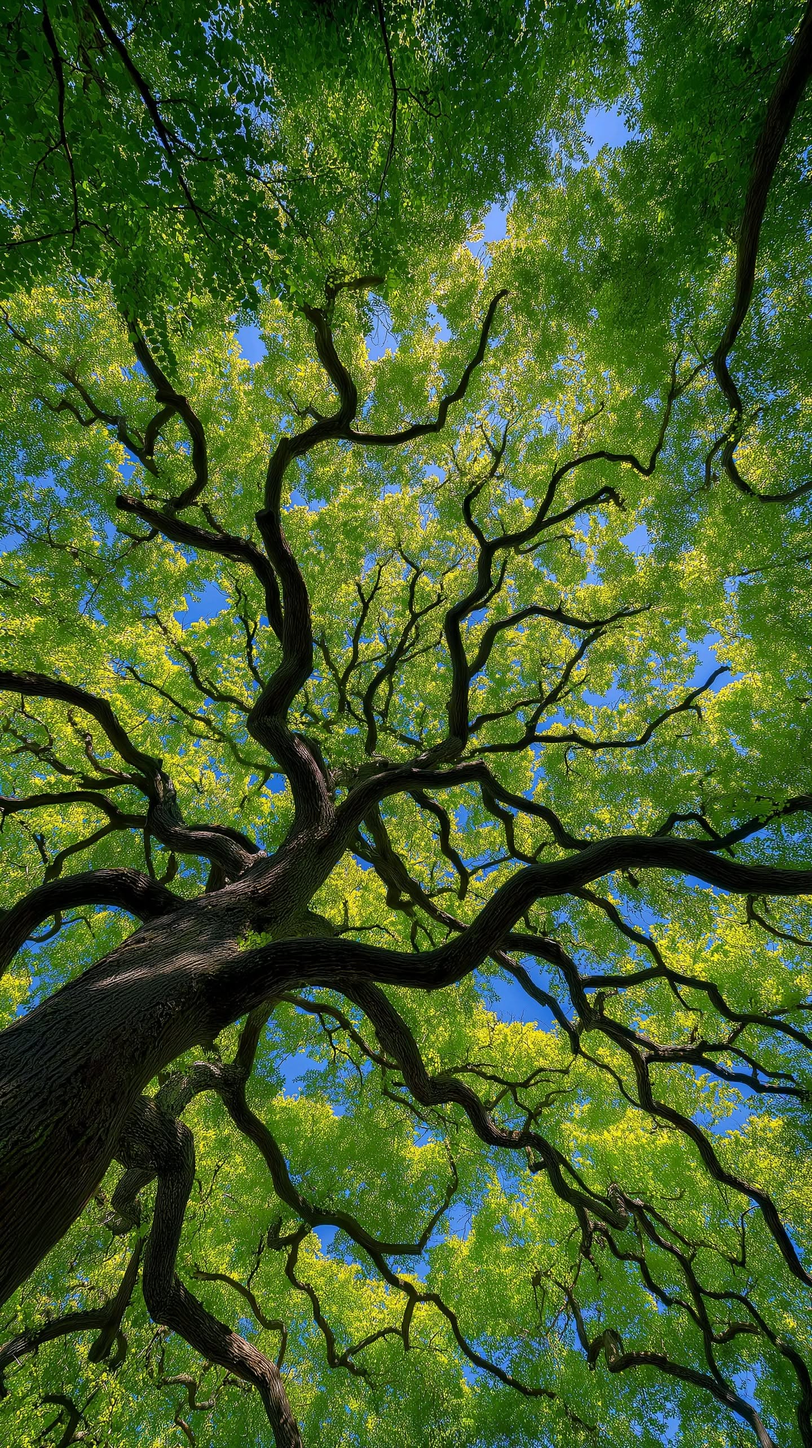
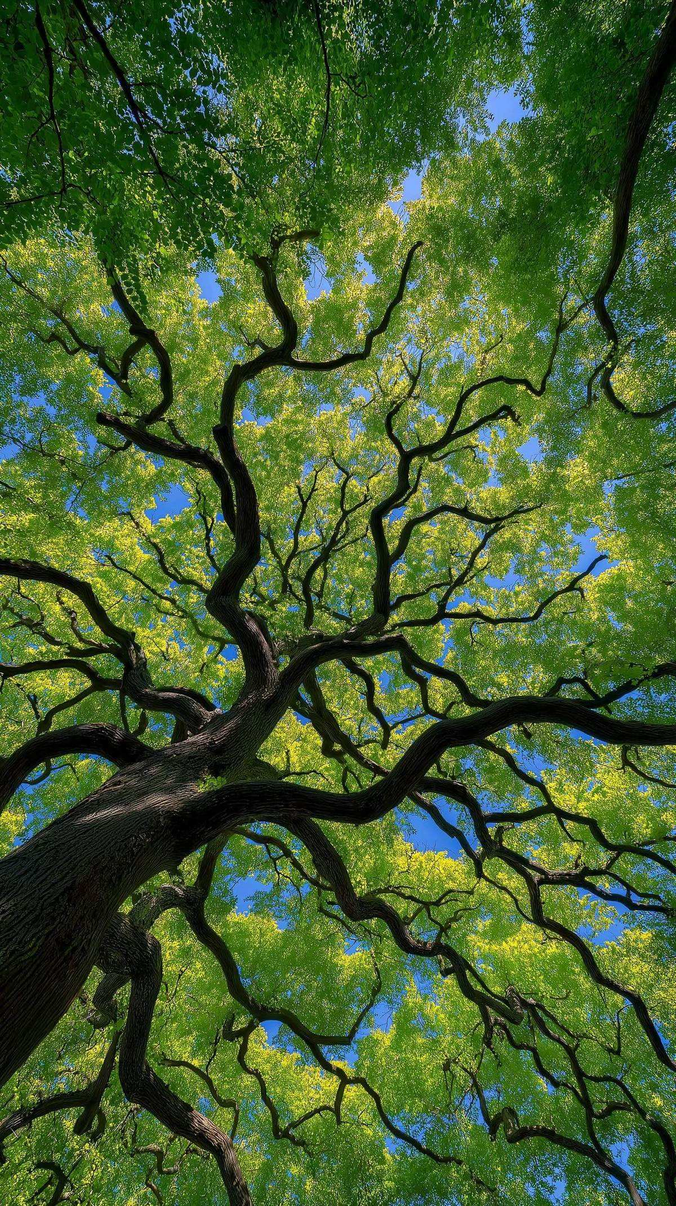
性能优化

diff --git a/docs/index.html b/docs/index.html
@@ -6,6 +6,8 @@
 <title>谢静雯 · 生态学本科生 | 个人简历</title>
 <link rel="preconnect" href="https://fonts.googleapis.com">
 <link rel="preconnect" href="https://fonts.gstatic.com" crossorigin>
+<link rel="preload" as="image" href="素材/b0ca37b1cce4b8c55ef022c82056c4d1.webp">
+<link rel="preload" as="image" href="1112811389206476574.jpg">
 <link href="https://fonts.googleapis.com/css2?family=Cormorant+Garamond:ital,wght@0,400;0,500;0,600;0,700;1,400;1,500&family=Noto+Serif+SC:wght@300;400;500;600;700;900&family=Noto+Sans+SC:wght@300;400;500;700&family=ZCOOL+XiaoWei&display=swap" rel="stylesheet">
 <style>
 *{margin:0;padding:0;box-sizing:border-box}
@@ -1242,7 +1244,7 @@ a{color:inherit;text-decoration:none}
         <div class="hero-avatar-ring r2" aria-hidden="true"></div>
         <div class="hero-avatar-ring" aria-hidden="true"></div>
         <div class="hero-avatar">
-          <img src="素材/b0ca37b1cce4b8c55ef022c82056c4d1.jpg" alt="谢静雯 个人照" decoding="async">
+          <img src="素材/b0ca37b1cce4b8c55ef022c82056c4d1.webp" alt="谢静雯 个人照" decoding="async" width="600" height="600">
         </div>
         <div class="hero-avatar-sheen" aria-hidden="true"></div>
       </div>
@@ -1280,19 +1282,19 @@ a{color:inherit;text-decoration:none}
             </defs>
           </svg>
           <div class="profile-card" data-tilt>
-            <img class="profile-card-img" src="素材/e66258d991a9b0ed69ec01e4ad24da39.jpg" alt="个人照一" loading="lazy" decoding="async">
+            <img class="profile-card-img" src="素材/e66258d991a9b0ed69ec01e4ad24da39.webp" alt="个人照一" loading="lazy" decoding="async">
             <div class="profile-card-glow"></div>
             <div class="profile-card-border"></div>
             <div class="profile-card-badge"><b>校园生活</b>· 日常剪影</div>
           </div>
           <div class="profile-card" data-tilt>
-            <img class="profile-card-img" src="素材/b0ca37b1cce4b8c55ef022c82056c4d1.jpg" alt="谢静雯 个人照" loading="lazy" decoding="async">
+            <img class="profile-card-img" src="素材/b0ca37b1cce4b8c55ef022c82056c4d1.webp" alt="谢静雯 个人照" loading="lazy" decoding="async">
             <div class="profile-card-glow"></div>
             <div class="profile-card-border"></div>
             <div class="profile-card-badge"><b>谢静雯</b>· 生态学 · 2023级</div>
           </div>
           <div class="profile-card" data-tilt>
-            <img class="profile-card-img" src="素材/1a0874faaf567f795d380a1bb3f8bf56.jpg" alt="个人照二" loading="lazy" decoding="async">
+            <img class="profile-card-img" src="素材/1a0874faaf567f795d380a1bb3f8bf56.webp" alt="个人照二" loading="lazy" decoding="async">
             <div class="profile-card-glow"></div>
             <div class="profile-card-border"></div>
             <div class="profile-card-badge"><b>实践掠影</b>· 学习瞬间</div>
@@ -1494,28 +1496,28 @@ a{color:inherit;text-decoration:none}
         <div class="driftwall-columns" id="driftcols">
           <!-- 4 columns; JS duplicates content for seamless wrap -->
           <div class="drift-col" data-dir="-1" data-speed="1">
-            <div class="drift-tile"><img src="素材/碳农探索活动.jpg" alt="碳农探索" loading="lazy" decoding="async"><div class="drift-caption"><div class="drift-cap-title">碳农先锋 · 探索活动</div><div class="drift-cap-sub">创新创业大赛实地调研团队，探索碳基材料治理路径</div></div></div>
-            <div class="drift-tile"><img src="素材/浏阳实习团队汇报.jpg" alt="浏阳实习汇报" loading="lazy" decoding="async"><div class="drift-caption"><div class="drift-cap-title">浏阳实习 · 团队汇报</div><div class="drift-cap-sub">生态考察后总结分享，梳理流域治理观察成果</div></div></div>
-            <div class="drift-tile"><img src="素材/部门开会.jpg" alt="部门例会" loading="lazy" decoding="async"><div class="drift-caption"><div class="drift-cap-title">学生会 · 部门例会</div><div class="drift-cap-sub">就业部活动筹备会议，推进招聘会与考研分享会落地</div></div></div>
-            <div class="drift-tile"><img src="素材/宣传工作.jpg" alt="宣传工作" loading="lazy" decoding="async"><div class="drift-caption"><div class="drift-cap-title">学生会 · 宣传工作</div><div class="drift-cap-sub">负责活动宣传与信息发布，运营学院就业云平台</div></div></div>
+            <div class="drift-tile"><img src="素材/碳农探索活动.webp" alt="碳农探索" loading="lazy" decoding="async" width="400" height="500"><div class="drift-caption"><div class="drift-cap-title">碳农先锋 · 探索活动</div><div class="drift-cap-sub">创新创业大赛实地调研团队，探索碳基材料治理路径</div></div></div>
+            <div class="drift-tile"><img src="素材/浏阳实习团队汇报.webp" alt="浏阳实习汇报" loading="lazy" decoding="async" width="400" height="500"><div class="drift-caption"><div class="drift-cap-title">浏阳实习 · 团队汇报</div><div class="drift-cap-sub">生态考察后总结分享，梳理流域治理观察成果</div></div></div>
+            <div class="drift-tile"><img src="素材/部门开会.webp" alt="部门例会" loading="lazy" decoding="async" width="400" height="500"><div class="drift-caption"><div class="drift-cap-title">学生会 · 部门例会</div><div class="drift-cap-sub">就业部活动筹备会议，推进招聘会与考研分享会落地</div></div></div>
+            <div class="drift-tile"><img src="素材/宣传工作.webp" alt="宣传工作" loading="lazy" decoding="async" width="400" height="500"><div class="drift-caption"><div class="drift-cap-title">学生会 · 宣传工作</div><div class="drift-cap-sub">负责活动宣传与信息发布，运营学院就业云平台</div></div></div>
           </div>
           <div class="drift-col" data-dir="1" data-speed="1.2">
-            <div class="drift-tile"><img src="素材/实验.jpg" alt="实验室" loading="lazy" decoding="async"><div class="drift-caption"><div class="drift-cap-title">科研 · 样品预处理</div><div class="drift-cap-sub">实验室中进行污染物降解实验样品前处理流程</div></div></div>
-            <div class="drift-tile"><img src="素材/家教.jpg" alt="家教辅导" loading="lazy" decoding="async"><div class="drift-caption"><div class="drift-cap-title">教培 · 辅导授课</div><div class="drift-cap-sub">独立承担带课任务，为学生定制学习计划并跟进执行</div></div></div>
-            <div class="drift-tile"><img src="素材/马拉松志愿者.jpg" alt="马拉松志愿" loading="lazy" decoding="async"><div class="drift-caption"><div class="drift-cap-title">马拉松 · 志愿保障</div><div class="drift-cap-sub">赛事志愿者参与秩序维护与补给服务保障</div></div></div>
-            <div class="drift-tile"><img src="素材/学校实习.jpg" alt="学校实习" loading="lazy" decoding="async"><div class="drift-caption"><div class="drift-cap-title">学校实习 · 实践现场</div><div class="drift-cap-sub">校内组织的专业实习活动，理论结合实践锻炼专业技能</div></div></div>
+            <div class="drift-tile"><img src="素材/实验.webp" alt="实验室" loading="lazy" decoding="async" width="400" height="500"><div class="drift-caption"><div class="drift-cap-title">科研 · 样品预处理</div><div class="drift-cap-sub">实验室中进行污染物降解实验样品前处理流程</div></div></div>
+            <div class="drift-tile"><img src="素材/家教.webp" alt="家教辅导" loading="lazy" decoding="async" width="400" height="500"><div class="drift-caption"><div class="drift-cap-title">教培 · 辅导授课</div><div class="drift-cap-sub">独立承担带课任务，为学生定制学习计划并跟进执行</div></div></div>
+            <div class="drift-tile"><img src="素材/马拉松志愿者.webp" alt="马拉松志愿" loading="lazy" decoding="async" width="400" height="500"><div class="drift-caption"><div class="drift-cap-title">马拉松 · 志愿保障</div><div class="drift-cap-sub">赛事志愿者参与秩序维护与补给服务保障</div></div></div>
+            <div class="drift-tile"><img src="素材/学校实习.webp" alt="学校实习" loading="lazy" decoding="async" width="400" height="500"><div class="drift-caption"><div class="drift-cap-title">学校实习 · 实践现场</div><div class="drift-cap-sub">校内组织的专业实习活动，理论结合实践锻炼专业技能</div></div></div>
           </div>
           <div class="drift-col" data-dir="-1" data-speed="1.4">
-            <div class="drift-tile"><img src="素材/实验2.jpg" alt="实验仪器" loading="lazy" decoding="async"><div class="drift-caption"><div class="drift-cap-title">实验室 · 仪器校准</div><div class="drift-cap-sub">实验仪器调试与校准，保障降解催化实验数据准确性</div></div></div>
-            <div class="drift-tile"><img src="素材/社区志愿活动.jpg" alt="社区志愿" loading="lazy" decoding="async"><div class="drift-caption"><div class="drift-cap-title">社区 · 志愿活动</div><div class="drift-cap-sub">社区公益服务现场，践行志愿精神累计服务超百小时</div></div></div>
-            <div class="drift-tile"><img src="素材/志愿献血.jpg" alt="志愿献血" loading="lazy" decoding="async"><div class="drift-caption"><div class="drift-cap-title">志愿 · 无偿献血</div><div class="drift-cap-sub">公益献血奉献爱心，履行大学生的社会责任</div></div></div>
-            <div class="drift-tile"><img src="素材/学校实习2.jpg" alt="学校实习2" loading="lazy" decoding="async"><div class="drift-caption"><div class="drift-cap-title">学校实习 · 实地操作</div><div class="drift-cap-sub">专业实习现场实操，深化对环境生态知识的理解</div></div></div>
+            <div class="drift-tile"><img src="素材/实验2.webp" alt="实验仪器" loading="lazy" decoding="async" width="400" height="500"><div class="drift-caption"><div class="drift-cap-title">实验室 · 仪器校准</div><div class="drift-cap-sub">实验仪器调试与校准，保障降解催化实验数据准确性</div></div></div>
+            <div class="drift-tile"><img src="素材/社区志愿活动.webp" alt="社区志愿" loading="lazy" decoding="async" width="400" height="500"><div class="drift-caption"><div class="drift-cap-title">社区 · 志愿活动</div><div class="drift-cap-sub">社区公益服务现场，践行志愿精神累计服务超百小时</div></div></div>
+            <div class="drift-tile"><img src="素材/志愿献血.webp" alt="志愿献血" loading="lazy" decoding="async" width="400" height="500"><div class="drift-caption"><div class="drift-cap-title">志愿 · 无偿献血</div><div class="drift-cap-sub">公益献血奉献爱心，履行大学生的社会责任</div></div></div>
+            <div class="drift-tile"><img src="素材/学校实习2.webp" alt="学校实习2" loading="lazy" decoding="async" width="400" height="500"><div class="drift-caption"><div class="drift-cap-title">学校实习 · 实地操作</div><div class="drift-cap-sub">专业实习现场实操，深化对环境生态知识的理解</div></div></div>
           </div>
           <div class="drift-col" data-dir="1" data-speed="0.9">
-            <div class="drift-tile"><img src="素材/做实验.jpg" alt="实验操作" loading="lazy" decoding="async"><div class="drift-caption"><div class="drift-cap-title">实验室 · 催化实验</div><div class="drift-cap-sub">Cu-Fe 负载氮化碳催化降解双氯芬酸性能研究操作</div></div></div>
-            <div class="drift-tile"><img src="素材/自己学建模.jpg" alt="自学建模" loading="lazy" decoding="async"><div class="drift-caption"><div class="drift-cap-title">自学 · 建模与设计</div><div class="drift-cap-sub">课余自学建模与视觉呈现，提升 PPT 与数字内容能力</div></div></div>
-            <div class="drift-tile"><img src="素材/碳农探索活动.jpg" alt="碳农探索" loading="lazy" decoding="async"><div class="drift-caption"><div class="drift-cap-title">碳农先锋 · 二次调研</div><div class="drift-cap-sub">创新创业优胜奖项目，持续探索碳基材料农业治理方向</div></div></div>
-            <div class="drift-tile"><img src="素材/实习成功展示.jpg" alt="实习成功展示" loading="lazy" decoding="async"><div class="drift-caption"><div class="drift-cap-title">实习 · 成果展示</div><div class="drift-cap-sub">实习成果汇报现场，完整呈现项目执行与个人收获</div></div></div>
+            <div class="drift-tile"><img src="素材/做实验.webp" alt="实验操作" loading="lazy" decoding="async" width="400" height="500"><div class="drift-caption"><div class="drift-cap-title">实验室 · 催化实验</div><div class="drift-cap-sub">Cu-Fe 负载氮化碳催化降解双氯芬酸性能研究操作</div></div></div>
+            <div class="drift-tile"><img src="素材/自己学建模.webp" alt="自学建模" loading="lazy" decoding="async" width="400" height="500"><div class="drift-caption"><div class="drift-cap-title">自学 · 建模与设计</div><div class="drift-cap-sub">课余自学建模与视觉呈现，提升 PPT 与数字内容能力</div></div></div>
+            <div class="drift-tile"><img src="素材/碳农探索活动.webp" alt="碳农探索" loading="lazy" decoding="async" width="400" height="500"><div class="drift-caption"><div class="drift-cap-title">碳农先锋 · 二次调研</div><div class="drift-cap-sub">创新创业优胜奖项目，持续探索碳基材料农业治理方向</div></div></div>
+            <div class="drift-tile"><img src="素材/实习成功展示.webp" alt="实习成功展示" loading="lazy" decoding="async" width="400" height="500"><div class="drift-caption"><div class="drift-cap-title">实习 · 成果展示</div><div class="drift-cap-sub">实习成果汇报现场，完整呈现项目执行与个人收获</div></div></div>
           </div>
         </div>
       </div>
@@ -1800,7 +1802,7 @@ const galleryItems = galleryData.map((item, i) => {
   el.dataset.cat = item.cat;
   el.dataset.index = String(i);
   el.innerHTML = `
-    <img src="${item.src}" alt="${item.name}" loading="lazy">
+    <img src="${item.src}" alt="${item.name}" loading="lazy" decoding="async" width="300" height="400">
     <div class="gallery-overlay">
       <div class="gallery-cat">${item.catLabel}</div>
       <div class="gallery-name">${item.name}</div>

diff --git a/index.html b/index.html
@@ -6,6 +6,8 @@
 <title>谢静雯 · 生态学本科生 | 个人简历</title>
 <link rel="preconnect" href="https://fonts.googleapis.com">
 <link rel="preconnect" href="https://fonts.gstatic.com" crossorigin>
+<link rel="preload" as="image" href="素材/b0ca37b1cce4b8c55ef022c82056c4d1.webp">
+<link rel="preload" as="image" href="1112811389206476574.jpg">
 <link href="https://fonts.googleapis.com/css2?family=Cormorant+Garamond:ital,wght@0,400;0,500;0,600;0,700;1,400;1,500&family=Noto+Serif+SC:wght@300;400;500;600;700;900&family=Noto+Sans+SC:wght@300;400;500;700&family=ZCOOL+XiaoWei&display=swap" rel="stylesheet">
 <style>
 *{margin:0;padding:0;box-sizing:border-box}
@@ -1242,7 +1244,7 @@ a{color:inherit;text-decoration:none}
         <div class="hero-avatar-ring r2" aria-hidden="true"></div>
         <div class="hero-avatar-ring" aria-hidden="true"></div>
         <div class="hero-avatar">
-          <img src="素材/b0ca37b1cce4b8c55ef022c82056c4d1.jpg" alt="谢静雯 个人照" decoding="async">
+          <img src="素材/b0ca37b1cce4b8c55ef022c82056c4d1.webp" alt="谢静雯 个人照" decoding="async" width="600" height="600">
         </div>
         <div class="hero-avatar-sheen" aria-hidden="true"></div>
       </div>
@@ -1280,19 +1282,19 @@ a{color:inherit;text-decoration:none}
             </defs>
           </svg>
           <div class="profile-card" data-tilt>
-            <img class="profile-card-img" src="素材/e66258d991a9b0ed69ec01e4ad24da39.jpg" alt="个人照一" loading="lazy" decoding="async">
+            <img class="profile-card-img" src="素材/e66258d991a9b0ed69ec01e4ad24da39.webp" alt="个人照一" loading="lazy" decoding="async">
             <div class="profile-card-glow"></div>
             <div class="profile-card-border"></div>
             <div class="profile-card-badge"><b>校园生活</b>· 日常剪影</div>
           </div>
           <div class="profile-card" data-tilt>
-            <img class="profile-card-img" src="素材/b0ca37b1cce4b8c55ef022c82056c4d1.jpg" alt="谢静雯 个人照" loading="lazy" decoding="async">
+            <img class="profile-card-img" src="素材/b0ca37b1cce4b8c55ef022c82056c4d1.webp" alt="谢静雯 个人照" loading="lazy" decoding="async">
             <div class="profile-card-glow"></div>
             <div class="profile-card-border"></div>
             <div class="profile-card-badge"><b>谢静雯</b>· 生态学 · 2023级</div>
           </div>
           <div class="profile-card" data-tilt>
-            <img class="profile-card-img" src="素材/1a0874faaf567f795d380a1bb3f8bf56.jpg" alt="个人照二" loading="lazy" decoding="async">
+            <img class="profile-card-img" src="素材/1a0874faaf567f795d380a1bb3f8bf56.webp" alt="个人照二" loading="lazy" decoding="async">
             <div class="profile-card-glow"></div>
             <div class="profile-card-border"></div>
             <div class="profile-card-badge"><b>实践掠影</b>· 学习瞬间</div>
@@ -1494,28 +1496,28 @@ a{color:inherit;text-decoration:none}
         <div class="driftwall-columns" id="driftcols">
           <!-- 4 columns; JS duplicates content for seamless wrap -->
           <div class="drift-col" data-dir="-1" data-speed="1">
-            <div class="drift-tile"><img src="素材/碳农探索活动.jpg" alt="碳农探索" loading="lazy" decoding="async"><div class="drift-caption"><div class="drift-cap-title">碳农先锋 · 探索活动</div><div class="drift-cap-sub">创新创业大赛实地调研团队，探索碳基材料治理路径</div></div></div>
-            <div class="drift-tile"><img src="素材/浏阳实习团队汇报.jpg" alt="浏阳实习汇报" loading="lazy" decoding="async"><div class="drift-caption"><div class="drift-cap-title">浏阳实习 · 团队汇报</div><div class="drift-cap-sub">生态考察后总结分享，梳理流域治理观察成果</div></div></div>
-            <div class="drift-tile"><img src="素材/部门开会.jpg" alt="部门例会" loading="lazy" decoding="async"><div class="drift-caption"><div class="drift-cap-title">学生会 · 部门例会</div><div class="drift-cap-sub">就业部活动筹备会议，推进招聘会与考研分享会落地</div></div></div>
-            <div class="drift-tile"><img src="素材/宣传工作.jpg" alt="宣传工作" loading="lazy" decoding="async"><div class="drift-caption"><div class="drift-cap-title">学生会 · 宣传工作</div><div class="drift-cap-sub">负责活动宣传与信息发布，运营学院就业云平台</div></div></div>
+            <div class="drift-tile"><img src="素材/碳农探索活动.webp" alt="碳农探索" loading="lazy" decoding="async" width="400" height="500"><div class="drift-caption"><div class="drift-cap-title">碳农先锋 · 探索活动</div><div class="drift-cap-sub">创新创业大赛实地调研团队，探索碳基材料治理路径</div></div></div>
+            <div class="drift-tile"><img src="素材/浏阳实习团队汇报.webp" alt="浏阳实习汇报" loading="lazy" decoding="async" width="400" height="500"><div class="drift-caption"><div class="drift-cap-title">浏阳实习 · 团队汇报</div><div class="drift-cap-sub">生态考察后总结分享，梳理流域治理观察成果</div></div></div>
+            <div class="drift-tile"><img src="素材/部门开会.webp" alt="部门例会" loading="lazy" decoding="async" width="400" height="500"><div class="drift-caption"><div class="drift-cap-title">学生会 · 部门例会</div><div class="drift-cap-sub">就业部活动筹备会议，推进招聘会与考研分享会落地</div></div></div>
+            <div class="drift-tile"><img src="素材/宣传工作.webp" alt="宣传工作" loading="lazy" decoding="async" width="400" height="500"><div class="drift-caption"><div class="drift-cap-title">学生会 · 宣传工作</div><div class="drift-cap-sub">负责活动宣传与信息发布，运营学院就业云平台</div></div></div>
           </div>
           <div class="drift-col" data-dir="1" data-speed="1.2">
-            <div class="drift-tile"><img src="素材/实验.jpg" alt="实验室" loading="lazy" decoding="async"><div class="drift-caption"><div class="drift-cap-title">科研 · 样品预处理</div><div class="drift-cap-sub">实验室中进行污染物降解实验样品前处理流程</div></div></div>
-            <div class="drift-tile"><img src="素材/家教.jpg" alt="家教辅导" loading="lazy" decoding="async"><div class="drift-caption"><div class="drift-cap-title">教培 · 辅导授课</div><div class="drift-cap-sub">独立承担带课任务，为学生定制学习计划并跟进执行</div></div></div>
-            <div class="drift-tile"><img src="素材/马拉松志愿者.jpg" alt="马拉松志愿" loading="lazy" decoding="async"><div class="drift-caption"><div class="drift-cap-title">马拉松 · 志愿保障</div><div class="drift-cap-sub">赛事志愿者参与秩序维护与补给服务保障</div></div></div>
-            <div class="drift-tile"><img src="素材/学校实习.jpg" alt="学校实习" loading="lazy" decoding="async"><div class="drift-caption"><div class="drift-cap-title">学校实习 · 实践现场</div><div class="drift-cap-sub">校内组织的专业实习活动，理论结合实践锻炼专业技能</div></div></div>
+            <div class="drift-tile"><img src="素材/实验.webp" alt="实验室" loading="lazy" decoding="async" width="400" height="500"><div class="drift-caption"><div class="drift-cap-title">科研 · 样品预处理</div><div class="drift-cap-sub">实验室中进行污染物降解实验样品前处理流程</div></div></div>
+            <div class="drift-tile"><img src="素材/家教.webp" alt="家教辅导" loading="lazy" decoding="async" width="400" height="500"><div class="drift-caption"><div class="drift-cap-title">教培 · 辅导授课</div><div class="drift-cap-sub">独立承担带课任务，为学生定制学习计划并跟进执行</div></div></div>
+            <div class="drift-tile"><img src="素材/马拉松志愿者.webp" alt="马拉松志愿" loading="lazy" decoding="async" width="400" height="500"><div class="drift-caption"><div class="drift-cap-title">马拉松 · 志愿保障</div><div class="drift-cap-sub">赛事志愿者参与秩序维护与补给服务保障</div></div></div>
+            <div class="drift-tile"><img src="素材/学校实习.webp" alt="学校实习" loading="lazy" decoding="async" width="400" height="500"><div class="drift-caption"><div class="drift-cap-title">学校实习 · 实践现场</div><div class="drift-cap-sub">校内组织的专业实习活动，理论结合实践锻炼专业技能</div></div></div>
           </div>
           <div class="drift-col" data-dir="-1" data-speed="1.4">
-            <div class="drift-tile"><img src="素材/实验2.jpg" alt="实验仪器" loading="lazy" decoding="async"><div class="drift-caption"><div class="drift-cap-title">实验室 · 仪器校准</div><div class="drift-cap-sub">实验仪器调试与校准，保障降解催化实验数据准确性</div></div></div>
-            <div class="drift-tile"><img src="素材/社区志愿活动.jpg" alt="社区志愿" loading="lazy" decoding="async"><div class="drift-caption"><div class="drift-cap-title">社区 · 志愿活动</div><div class="drift-cap-sub">社区公益服务现场，践行志愿精神累计服务超百小时</div></div></div>
-            <div class="drift-tile"><img src="素材/志愿献血.jpg" alt="志愿献血" loading="lazy" decoding="async"><div class="drift-caption"><div class="drift-cap-title">志愿 · 无偿献血</div><div class="drift-cap-sub">公益献血奉献爱心，履行大学生的社会责任</div></div></div>
-            <div class="drift-tile"><img src="素材/学校实习2.jpg" alt="学校实习2" loading="lazy" decoding="async"><div class="drift-caption"><div class="drift-cap-title">学校实习 · 实地操作</div><div class="drift-cap-sub">专业实习现场实操，深化对环境生态知识的理解</div></div></div>
+            <div class="drift-tile"><img src="素材/实验2.webp" alt="实验仪器" loading="lazy" decoding="async" width="400" height="500"><div class="drift-caption"><div class="drift-cap-title">实验室 · 仪器校准</div><div class="drift-cap-sub">实验仪器调试与校准，保障降解催化实验数据准确性</div></div></div>
+            <div class="drift-tile"><img src="素材/社区志愿活动.webp" alt="社区志愿" loading="lazy" decoding="async" width="400" height="500"><div class="drift-caption"><div class="drift-cap-title">社区 · 志愿活动</div><div class="drift-cap-sub">社区公益服务现场，践行志愿精神累计服务超百小时</div></div></div>
+            <div class="drift-tile"><img src="素材/志愿献血.webp" alt="志愿献血" loading="lazy" decoding="async" width="400" height="500"><div class="drift-caption"><div class="drift-cap-title">志愿 · 无偿献血</div><div class="drift-cap-sub">公益献血奉献爱心，履行大学生的社会责任</div></div></div>
+            <div class="drift-tile"><img src="素材/学校实习2.webp" alt="学校实习2" loading="lazy" decoding="async" width="400" height="500"><div class="drift-caption"><div class="drift-cap-title">学校实习 · 实地操作</div><div class="drift-cap-sub">专业实习现场实操，深化对环境生态知识的理解</div></div></div>
           </div>
           <div class="drift-col" data-dir="1" data-speed="0.9">
-            <div class="drift-tile"><img src="素材/做实验.jpg" alt="实验操作" loading="lazy" decoding="async"><div class="drift-caption"><div class="drift-cap-title">实验室 · 催化实验</div><div class="drift-cap-sub">Cu-Fe 负载氮化碳催化降解双氯芬酸性能研究操作</div></div></div>
-            <div class="drift-tile"><img src="素材/自己学建模.jpg" alt="自学建模" loading="lazy" decoding="async"><div class="drift-caption"><div class="drift-cap-title">自学 · 建模与设计</div><div class="drift-cap-sub">课余自学建模与视觉呈现，提升 PPT 与数字内容能力</div></div></div>
-            <div class="drift-tile"><img src="素材/碳农探索活动.jpg" alt="碳农探索" loading="lazy" decoding="async"><div class="drift-caption"><div class="drift-cap-title">碳农先锋 · 二次调研</div><div class="drift-cap-sub">创新创业优胜奖项目，持续探索碳基材料农业治理方向</div></div></div>
-            <div class="drift-tile"><img src="素材/实习成功展示.jpg" alt="实习成功展示" loading="lazy" decoding="async"><div class="drift-caption"><div class="drift-cap-title">实习 · 成果展示</div><div class="drift-cap-sub">实习成果汇报现场，完整呈现项目执行与个人收获</div></div></div>
+            <div class="drift-tile"><img src="素材/做实验.webp" alt="实验操作" loading="lazy" decoding="async" width="400" height="500"><div class="drift-caption"><div class="drift-cap-title">实验室 · 催化实验</div><div class="drift-cap-sub">Cu-Fe 负载氮化碳催化降解双氯芬酸性能研究操作</div></div></div>
+            <div class="drift-tile"><img src="素材/自己学建模.webp" alt="自学建模" loading="lazy" decoding="async" width="400" height="500"><div class="drift-caption"><div class="drift-cap-title">自学 · 建模与设计</div><div class="drift-cap-sub">课余自学建模与视觉呈现，提升 PPT 与数字内容能力</div></div></div>
+            <div class="drift-tile"><img src="素材/碳农探索活动.webp" alt="碳农探索" loading="lazy" decoding="async" width="400" height="500"><div class="drift-caption"><div class="drift-cap-title">碳农先锋 · 二次调研</div><div class="drift-cap-sub">创新创业优胜奖项目，持续探索碳基材料农业治理方向</div></div></div>
+            <div class="drift-tile"><img src="素材/实习成功展示.webp" alt="实习成功展示" loading="lazy" decoding="async" width="400" height="500"><div class="drift-caption"><div class="drift-cap-title">实习 · 成果展示</div><div class="drift-cap-sub">实习成果汇报现场，完整呈现项目执行与个人收获</div></div></div>
           </div>
         </div>
       </div>
@@ -1800,7 +1802,7 @@ const galleryItems = galleryData.map((item, i) => {
   el.dataset.cat = item.cat;
   el.dataset.index = String(i);
   el.innerHTML = `
-    <img src="${item.src}" alt="${item.name}" loading="lazy">
+    <img src="${item.src}" alt="${item.name}" loading="lazy" decoding="async" width="300" height="400">
     <div class="gallery-overlay">
       <div class="gallery-cat">${item.catLabel}</div>
       <div class="gallery-name">${item.name}</div>
